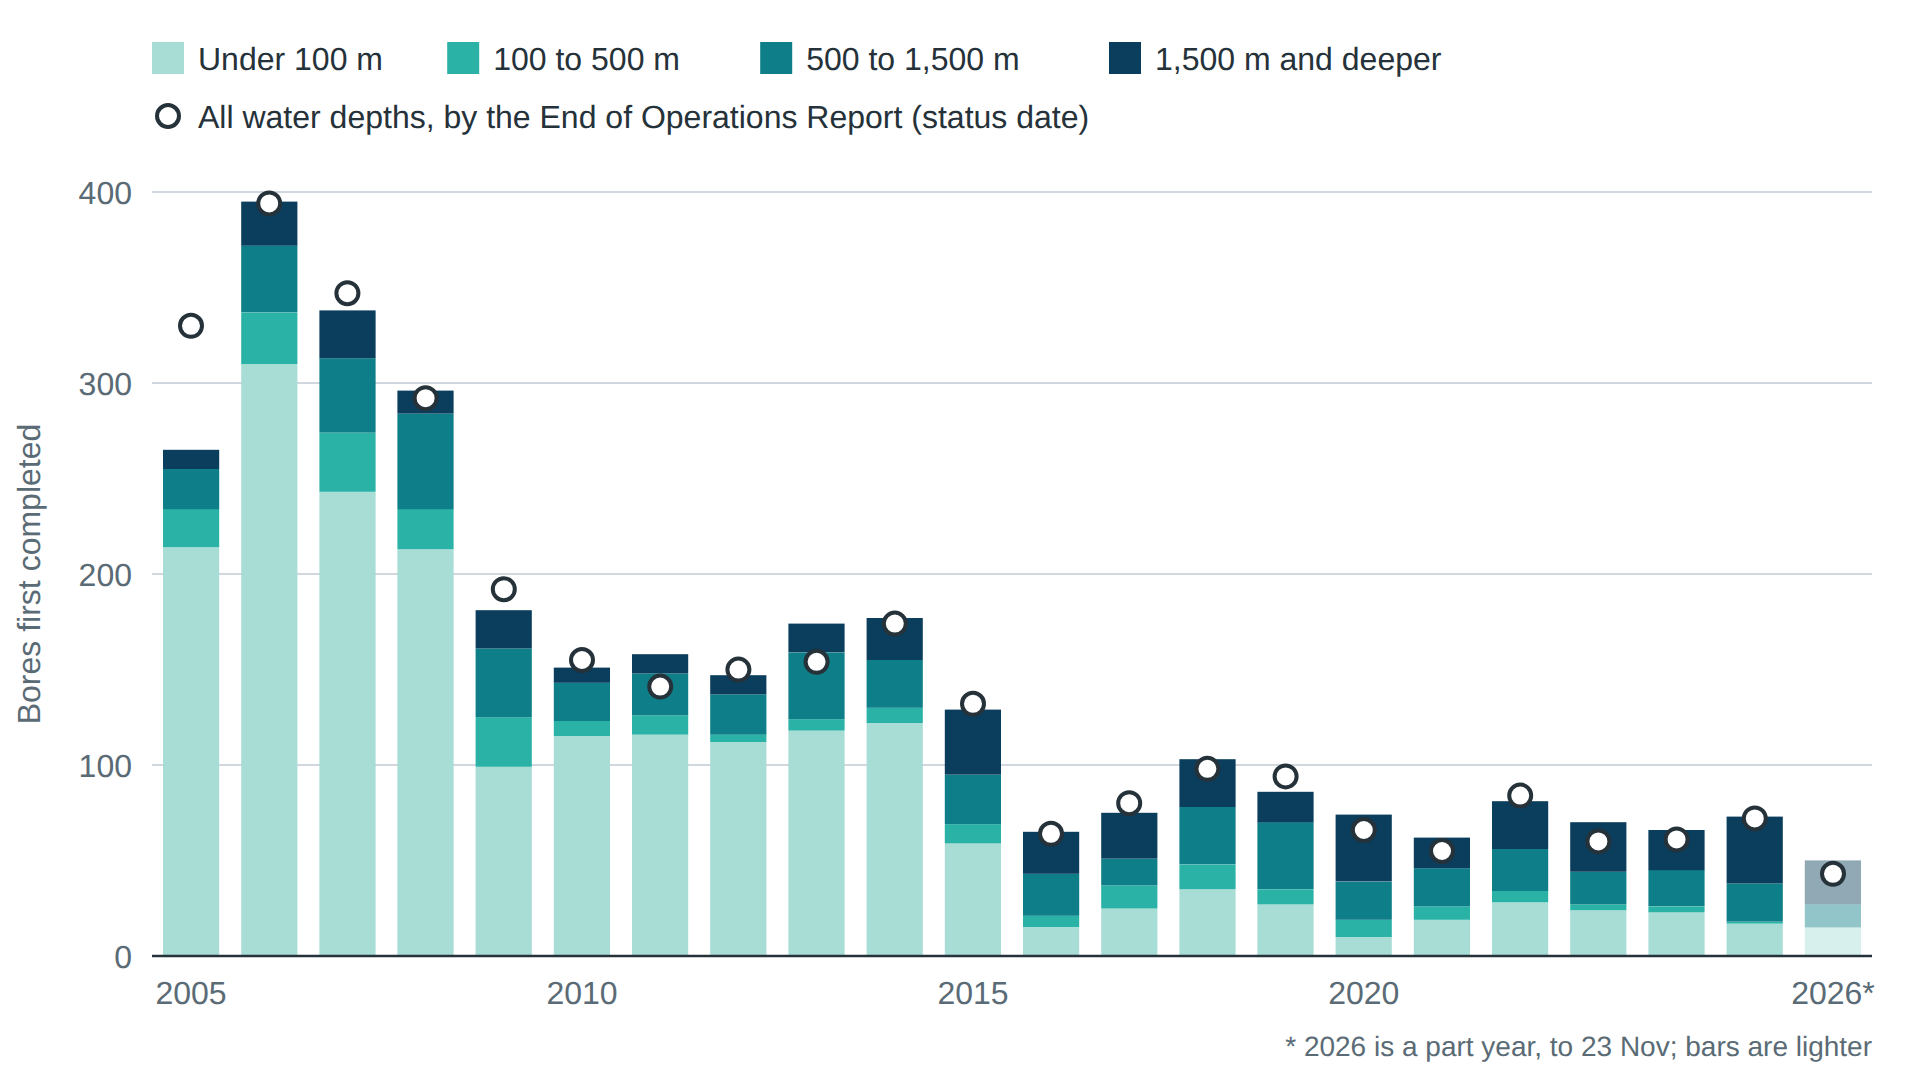
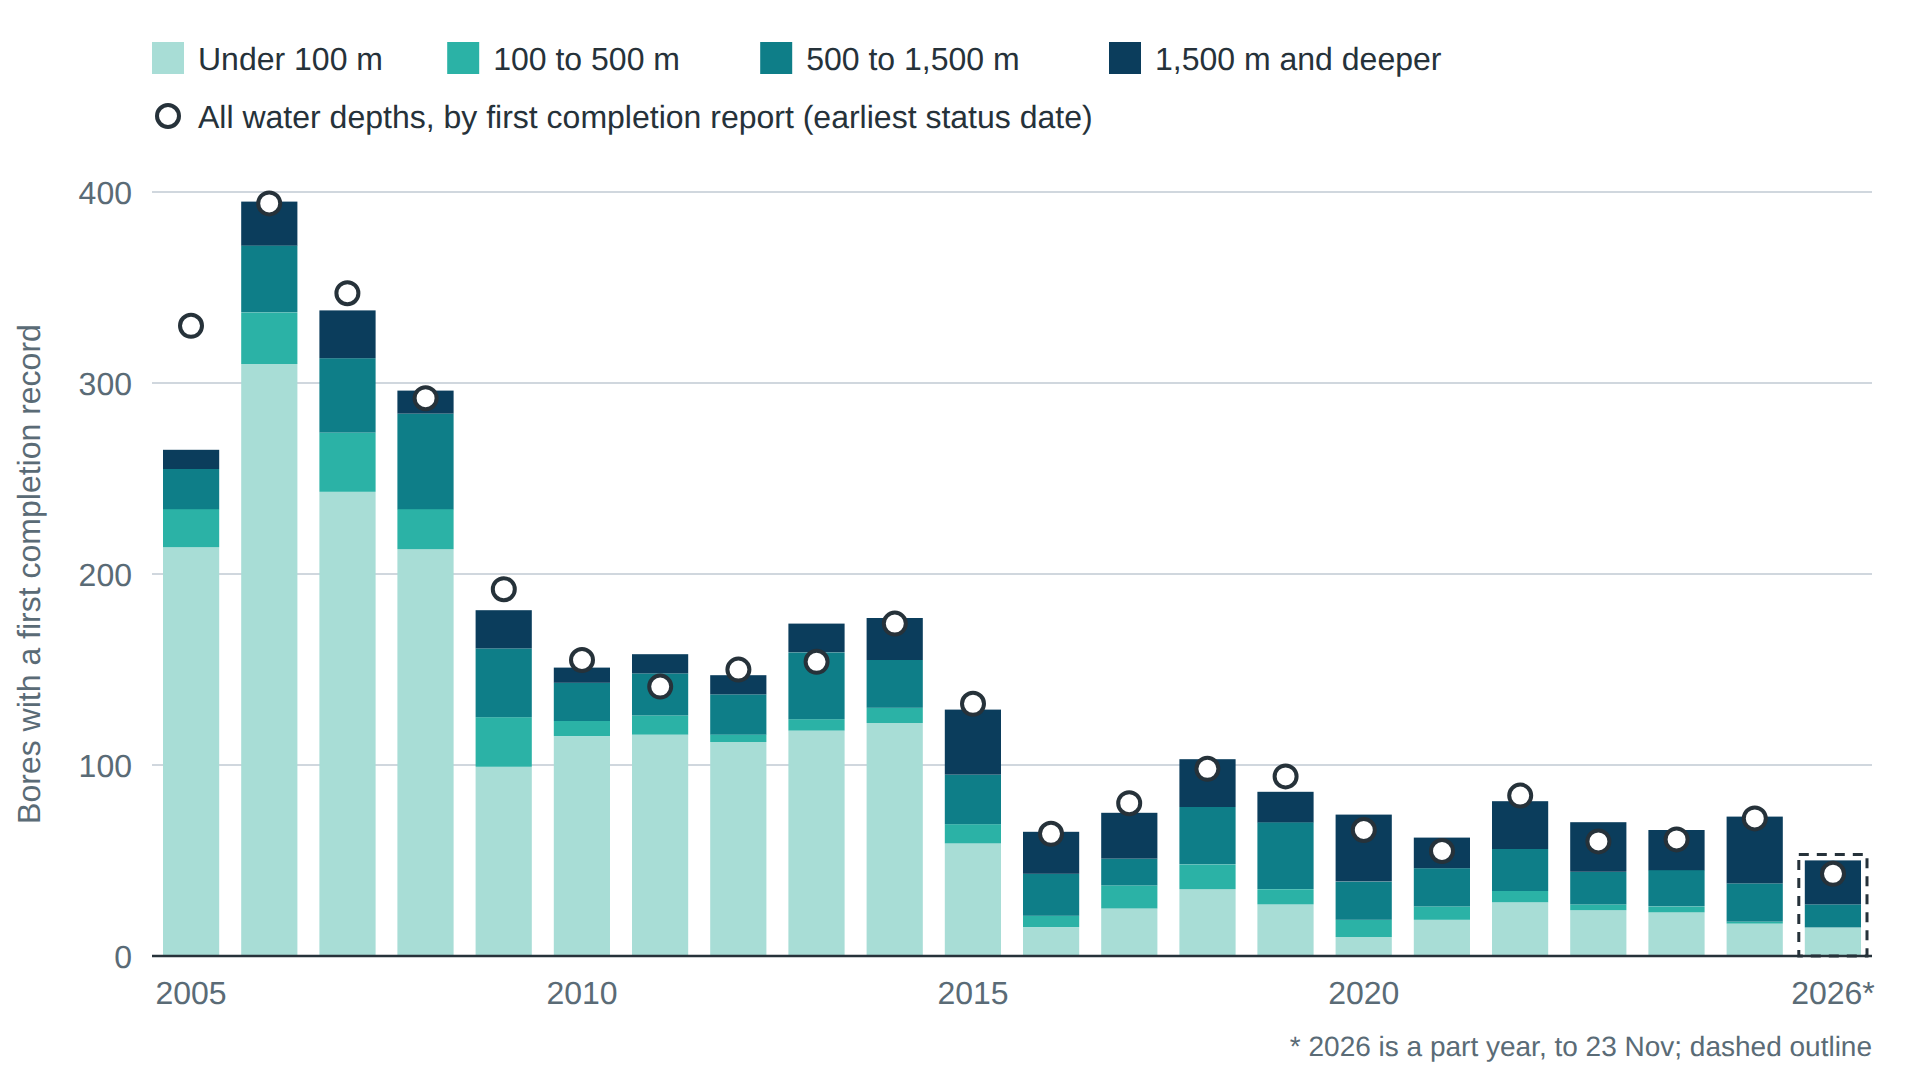
docs(bsee): record-bound wording for completions, and a dashed outline for the part year
After a second review round the shorthand "bores first completed" is
replaced by what the files hold: bores with a first initial completion
approval, and bores with a first completion report. The method page, the
reusable prompt and the chart titles and axes follow; table and key names
keep the shorter wording, and the method page says so. No count changed.

The part year is now marked by a dashed outline with its colours unchanged;
the lighter fill made the darkest band read as another band.

Claude-Session: https://claude.ai/code/session_01BEEVa69FuaA3rTEguaNQjE

diff --git a/examples/bsee/completions_by_depth/plot_charts.py b/examples/bsee/completions_by_depth/plot_charts.py
@@ -133,13 +133,19 @@ def stacked_years(
     for i, year in enumerate(years):
         x = left + i * slot + (slot - bar) / 2
         base = 0
-        faded = 0.45 if year == part_year else 1.0
         for key, colour in zip(series, colours):
             v = series[key][i]
-            parts.append(
-                rect(x, y_of(base + v), bar, plot_h * v / y_max, colour, faded)
-            )
+            parts.append(rect(x, y_of(base + v), bar, plot_h * v / y_max, colour))
             base += v
+        if year == part_year:
+            # A dashed outline marks the part year; the colours stay as in
+            # the legend, so a faded band is not read as another band.
+            parts.append(
+                f'<rect x="{x - 3:.1f}" y="{y_of(base) - 3:.1f}" '
+                f'width="{bar + 6:.1f}" height="{plot_h * base / y_max + 3:.1f}" '
+                f'fill="none" stroke="{INK}" stroke-width="1.5" '
+                f'stroke-dasharray="5 4"/>'
+            )
         if not dots:  # circles would sit on the totals
             parts.append(
                 text(x + bar / 2, y_of(base) - 7, f"{base:,}", 13, "middle", fill=INK)
@@ -166,7 +172,7 @@ def stacked_years(
             text(
                 W - right,
                 H - 12,
-                f"* {part_year} is a part year, to 23 Nov; bars are lighter",
+                f"* {part_year} is a part year, to 23 Nov; dashed outline",
                 14,
                 "end",
                 fill=MUTED,
@@ -210,8 +216,8 @@ def chart_bores(out):
     report = by_year_band(rows, "bores", years, lambda r: r["basis"] == "report")
     dots = [sum(report[b][i] for b in BANDS) for i in range(len(years))]
     title = (
-        "Bores first completed by year and water depth, "
-        "from approvals (bars) and from reports (circles)"
+        "Bores with a first completion record by year and water depth: first "
+        "initial completion approval (bars) and first completion report (circles)"
     )
     return svg(
         stacked_years(
@@ -219,10 +225,10 @@ def chart_bores(out):
             years,
             BAND_LABELS,
             BAND_COLOURS,
-            "Bores first completed",
+            "Bores with a first completion record",
             part,
             dots,
-            "All water depths, by the End of Operations Report (status date)",
+            "All water depths, by first completion report (earliest status date)",
         ),
         title,
     )
@@ -237,7 +243,7 @@ def chart_fluid(out):
         key = r["fluid"] if r["fluid"] in series else "not reported"
         series[key][years.index(int(r["year"]))] += int(r["bores"])
     title = (
-        "Bores first reported completed by year, "
+        "Bores with a first completion report by year, "
         "by the fluid their completion status codes name"
     )
     return svg(
@@ -246,7 +252,7 @@ def chart_fluid(out):
             years,
             FLUID_LABELS,
             FLUID_COLOURS,
-            "Bores first reported completed",
+            "Bores with a first completion report",
             part,
         ),
         title,

diff --git a/examples/bsee/completions_by_depth/README.md b/examples/bsee/completions_by_depth/README.md
@@ -95,13 +95,14 @@ A completion leaves two public records. Both are counted, and kept apart.
    read as the date of the bore's completion status, not the date of each
    report (`summary.json`). What each later report covers is not classified
    here. The file holds no filing date.
-3. **Bore first completed.** A bore is one twelve-digit API number; a well is
+3. **First completion record of a bore.** A bore is one twelve-digit API number; a well is
    its first ten digits. By the approval record: the bore's earliest initial
    completion approval. By the report record: the earliest status date among its
    completion reports. The earliest record is taken over the whole file and then
    the years 2005 to 2026 are kept, so a bore first approved in 2004 is not
-   counted in 2005. "First completed" is shorthand for the first completion
-   record in the electronic files, not a statement that the work was done. A
+   counted in 2005. A first completion record is the first record in the
+   electronic files, not a statement that the work was done; the table and key
+   names (`bores_first_completed_...`) keep the shorter wording. A
    bore completed on paper before April 2004 and approved or reported again
    later would be counted at its first electronic record, on either basis; the
    files cannot show how many there are. The reports are every report of code
@@ -129,14 +130,14 @@ Years 2005 to 2026 (2026 to 23 Nov). Every number is in a table in
 | Completion approvals (the group the interventions study excludes) | 8,472 | `completion_approvals_by_year_band.csv` |
 | of which initial completion (`INITCOMP`) | 6,841 (80.7 %) | same |
 | of which other completion work, no change of zone | 1,631 | same |
-| Bores first completed, by approval | 3,216 (2,921 wells) | `bores_first_completed_by_year_band.csv` |
-| Bores first completed, by report | 3,238 (3,005 wells) | same |
+| Bores with a first initial completion approval | 3,216 (2,921 wells) | `bores_first_completed_by_year_band.csv` |
+| Bores with a first completion report | 3,238 (3,005 wells) | same |
 | Completion reports, status date 2005 to 2026 | 5,276 | `completion_reports_by_year_band.csv` |
 | Completion reports, all status years | 8,446 | `summary.json` |
 
 By water depth, 2005 to 2026:
 
-| Water depth | Completion approvals | Bores first completed, by approval | by report |
+| Water depth | Completion approvals | Bores with a first initial completion approval | Bores with a first completion report |
 | --- | ---: | ---: | ---: |
 | Under 100 m | 4,460 | 1,959 | 2,013 |
 | 100 to 500 m | 641 | 239 | 243 |
@@ -146,14 +147,14 @@ By water depth, 2005 to 2026:
 
 - Approvals: 657 in 2006, the highest year, and 331 in 2025. Under 100 m: 531
   and 51. At 1,500 m and deeper: 30 and 173.
-- Bores first completed, by approval: 395 in 2006 and 73 in 2025; by report:
+- Bores with a first initial completion approval: 395 in 2006 and 73 in 2025; with a first completion report:
   394 and 72.
 - The two records name largely the same bores: 3,043 of the 3,216 bores first
   approved have a completion report (94.6 %), and 3,048 of the 3,238 bores first
   reported have an initial completion approval (94.1 %). The status date falls
   a median 23 days after the first approval (middle half 12 to 43 days); for
   157 matched bores it falls before it (`approval_report_match.csv`).
-- A bore first approved carries a mean 2.13 initial completion approvals
+- A bore first approved for initial completion carries a mean 2.13 initial completion approvals
   (median 1; 1,677 bores carry one).
 - Other completion work (`completion_approval_suboperations.csv`, which counts
   each sub-operation over all approvals and over each kind): of the 1,631
@@ -173,7 +174,8 @@ By water depth, 2005 to 2026:
   intervals read, 82.7 % record one perforated interval and 0.9 % none.
 - Hydraulic fracturing sub-operation (`fracturing_by_year.csv`,
   `fracturing_by_band.csv`): the code `FRAC` first appears on a permit in 2015.
-  Of the 805 bores first approved from 2016, 538 (66.8 %) carry it. Before 2015
+  Of the 805 bores first approved for initial completion from 2016 to 23 Nov
+  2026, 538 (66.8 %) carry it. Before 2015
   the code is absent, which is a change in coding; whether practice changed is
   not established, and no trend is drawn across 2015.
 - Drilling to completion (`drilled_to_completed.csv`): of the wells first

diff --git a/examples/bsee/completions_by_depth/reusable-prompt.md b/examples/bsee/completions_by_depth/reusable-prompt.md
@@ -30,8 +30,8 @@ count_completions.py with --data-dir set to that folder, then plot_charts.py.
 Check output/verification.json: every conservation check true, and the
 comparison with the interventions study showing the same count on both sides
 with no cell different. On the files of 23 Nov 2026 the totals are 8,472
-completion approvals, 6,841 of them initial completions, 3,216 bores first
-completed by approval and 3,238 by report.
+completion approvals, 6,841 of them initial completions, 3,216 bores with a
+first initial completion approval and 3,238 with a first completion report.
 ```
 
 ## Adapt it to a field, lease or depth range
@@ -39,11 +39,13 @@ completed by approval and 3,238 by report.
 ```text
 Filter the borehole table to the wells of interest (by API number, lease, area
 or water depth) before counting, and keep the same definitions: a completion
-approval is an approved permit of type COMP without a change of zone; an
+approval is an approved permit of type COMP without a change of zone, a
+plug-back or new-hole work; an
 initial completion carries the sub-operation INITCOMP; a completion report is
 an End of Operations Report with operation code C, dated by its borehole
 status date. Report, by year and water-depth band: completion approvals, bores
-first completed by each record, and how many bores appear in both. Keep
+with a first completion record of each kind, and how many bores appear in
+both. A record is a permit or a report, not proof of finished work. Keep
 approvals apart from reports, state every field used with the regulator's
 definition, give the share populated for any sparse field, and make no claim
 about cause. Before reporting, check that band counts and year counts each sum
